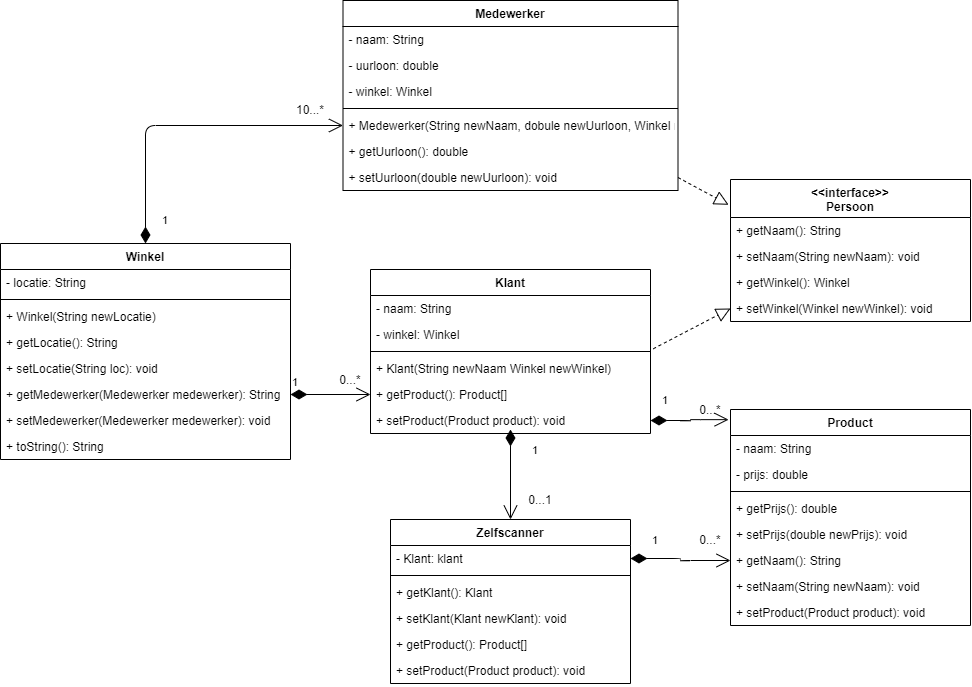
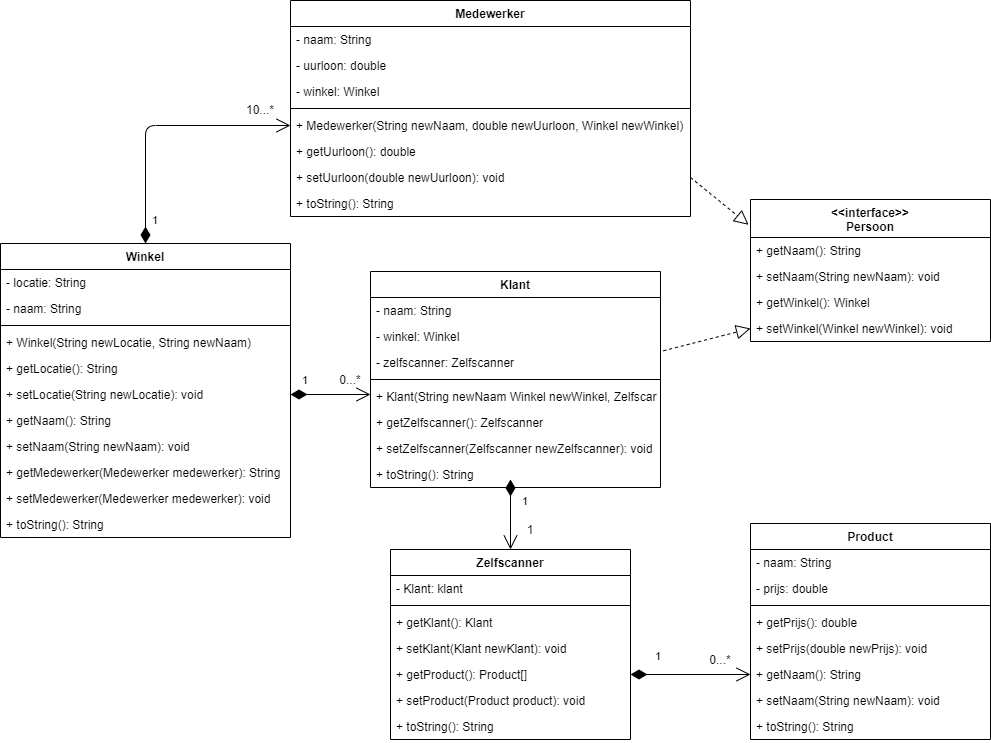
- Implemented feedback

diff --git a/School/src/domain_design_and_implementatie/Main.java b/School/src/domain_design_and_implementatie/Main.java
@@ -4,7 +4,7 @@ public class Main {
 
 	public static void main(String[] args)
 	{		
-		Winkel jumbo = new Winkel("Leidsche Rijn");
+		Winkel jumbo = new Winkel("Leidsche Rijn", "Jumbo");
 
 		Medewerker wail = new Medewerker("Wail", 7.62, jumbo);
 		Medewerker hans = new Medewerker("Hans", 7.51, jumbo);
@@ -13,18 +13,18 @@ public class Main {
 
 		System.out.println(jumbo.toString());
 		
-		Klant peter = new Klant("Peter", jumbo);
+		Zelfscanner zelfscanner = new Zelfscanner();
+		Klant peter = new Klant("Peter", jumbo, zelfscanner);
+		
+		System.out.println("\n" + peter.toString());
 		
 		Product eiren = new Product("Eiren", 3.52);
 		Product melk = new Product("Melk", 2.13);
 		
-		peter.setProduct(eiren);
-		peter.setProduct(melk);
+		zelfscanner.setProduct(eiren);
+		zelfscanner.setProduct(melk);
 
-		for (Product product : peter.getProduct())
-		{
-			System.out.println("Peter heeft: " + product.getNaam() + " gekocht voor " + product.getPrijs());
-		}
+		System.out.println(zelfscanner.toString());
 	}
 	
 }

diff --git a/School/src/domain_design_and_implementatie/Klant.java b/School/src/domain_design_and_implementatie/Klant.java
@@ -1,27 +1,32 @@
 package domain_design_and_implementatie;
 
-import java.util.ArrayList;
-
 public class Klant implements Persoon {
 
 	private String naam;
 	private Winkel winkel;
-	private ArrayList<Product> producten = new ArrayList<Product>();
+	private Zelfscanner zelfscanner;
 	
-	public Klant(String newNaam, Winkel newWinkel)
+	public Klant(String newNaam, Winkel newWinkel, Zelfscanner newZelfscanner)
 	{
-		naam = newNaam;
-		winkel = newWinkel;
+		setNaam(newNaam);
+		setWinkel(newWinkel);
+		setZelfscanner(newZelfscanner);
+		zelfscanner.setKlant(this);
 	}
 	
-	public ArrayList<Product> getProduct()
+	public Zelfscanner getZelfscanner()
 	{
-		return producten;
+		return zelfscanner;
 	}
 	
-	public void setProduct(Product product)
+	public void setZelfscanner(Zelfscanner newZelfscanner)
 	{
-		producten.add(product);
+		zelfscanner = newZelfscanner;
+	}
+	
+	public String toString()
+	{
+		return getWinkel().getNaam() + "/" + getNaam();
 	}
 	
 	@Override

diff --git a/School/src/domain_design_and_implementatie/Winkel.java b/School/src/domain_design_and_implementatie/Winkel.java
@@ -5,11 +5,13 @@ import java.util.ArrayList;
 public class Winkel {
 
 	private String locatie;
+	private String naam;
 	private ArrayList<Medewerker> medewerkers = new ArrayList<Medewerker>();
 
-	public Winkel(String newLocatie)
+	public Winkel(String newLocatie, String newNaam)
 	{
-		locatie = newLocatie;
+		setLocatie(newLocatie);
+		setNaam(newNaam);
 	}
 	
 	public String getLocatie()
@@ -20,6 +22,16 @@ public class Winkel {
 	public void setLocatie(String newLocatie)
 	{
 		locatie = newLocatie;
+	}
+	
+	public String getNaam()
+	{
+		return naam;
+	}
+	
+	public void setNaam(String newNaam)
+	{
+		naam = newNaam;
 	}
 	
 	public String getMedewerker(Medewerker medewerker)
@@ -38,7 +50,7 @@ public class Winkel {
 		String returnString = locatie;
 		for (Medewerker medewerker : medewerkers)
 		{
-			returnString += "\n" + medewerker.getNaam() + "/" + medewerker.getUurloon();
+			returnString += "\n" + medewerker.toString();
 		}
 		return returnString;
 	}

diff --git a/School/src/domain_design_and_implementatie/Medewerker.java b/School/src/domain_design_and_implementatie/Medewerker.java
@@ -11,6 +11,7 @@ public class Medewerker implements Persoon {
 	{
 		setNaam(newNaam);
 		setUurloon(newUurloon);
+		setWinkel(newWinkel);
 	}
 	
 	public double getUurloon()
@@ -23,6 +24,11 @@ public class Medewerker implements Persoon {
 		uurloon = newUurloon;
 	}
 
+	public String toString()
+	{
+		return getNaam() + "/" + getWinkel().getNaam() + "/" + getUurloon();
+	}
+	
 	@Override
 	public String getNaam() {
 		return naam;

diff --git a/School/src/domain_design_and_implementatie/Zelfscanner.java b/School/src/domain_design_and_implementatie/Zelfscanner.java
@@ -27,4 +27,14 @@ public class Zelfscanner {
 		producten.add(product);
 	}
 	
+	public String toString()
+	{
+		String returnString = "\n" + getKlant().getNaam();
+		for (Product product : getProduct())
+		{
+			returnString += "\n" + product.toString();
+		}
+		return returnString;
+	}
+	
 }

diff --git a/School/src/domain_design_and_implementatie/Product.java b/School/src/domain_design_and_implementatie/Product.java
@@ -29,4 +29,9 @@ public class Product {
 		naam = newNaam;
 	}	
 	
+	public String toString()
+	{
+		return getNaam() + "/" + getPrijs();
+	}
+	
 }
